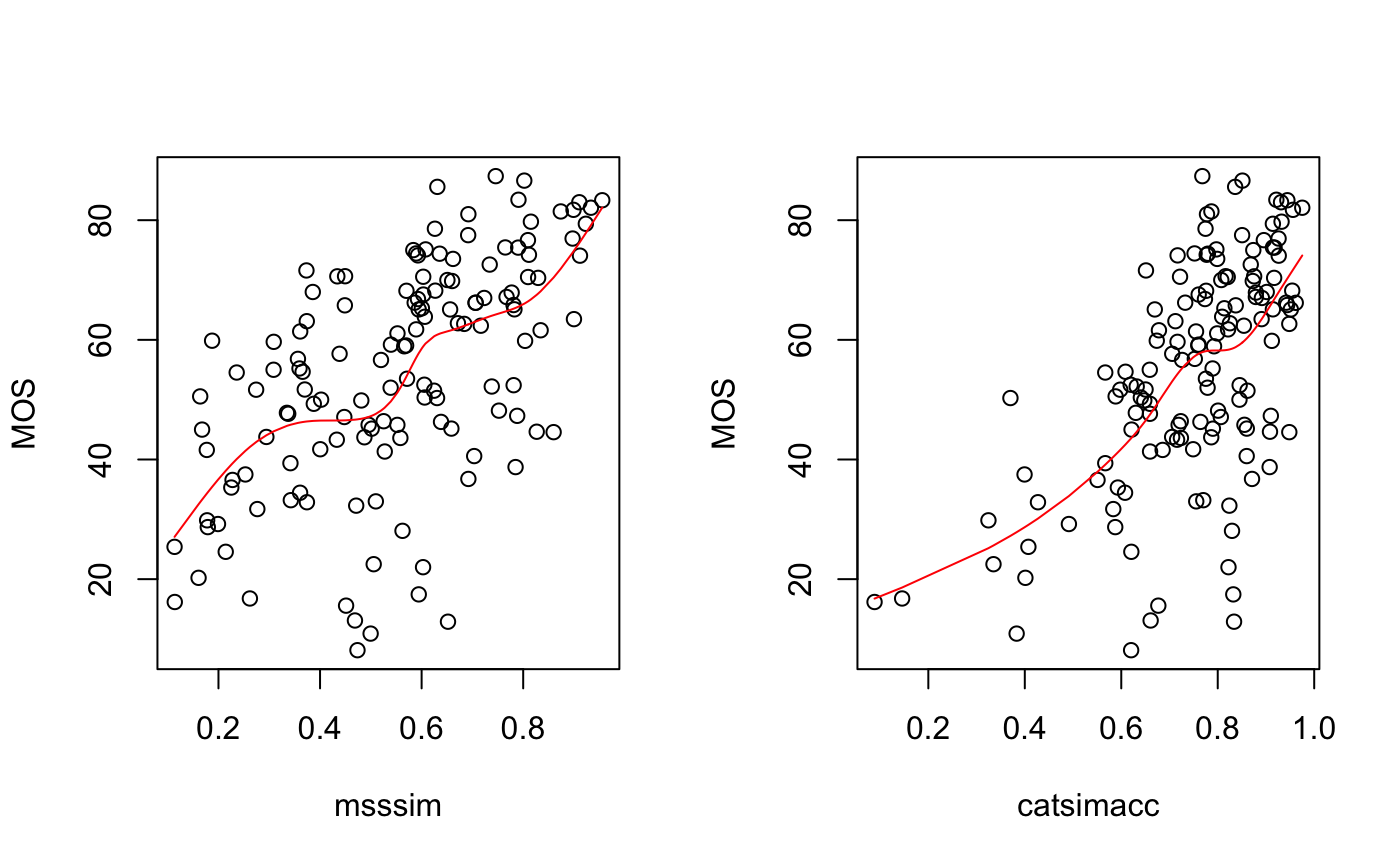
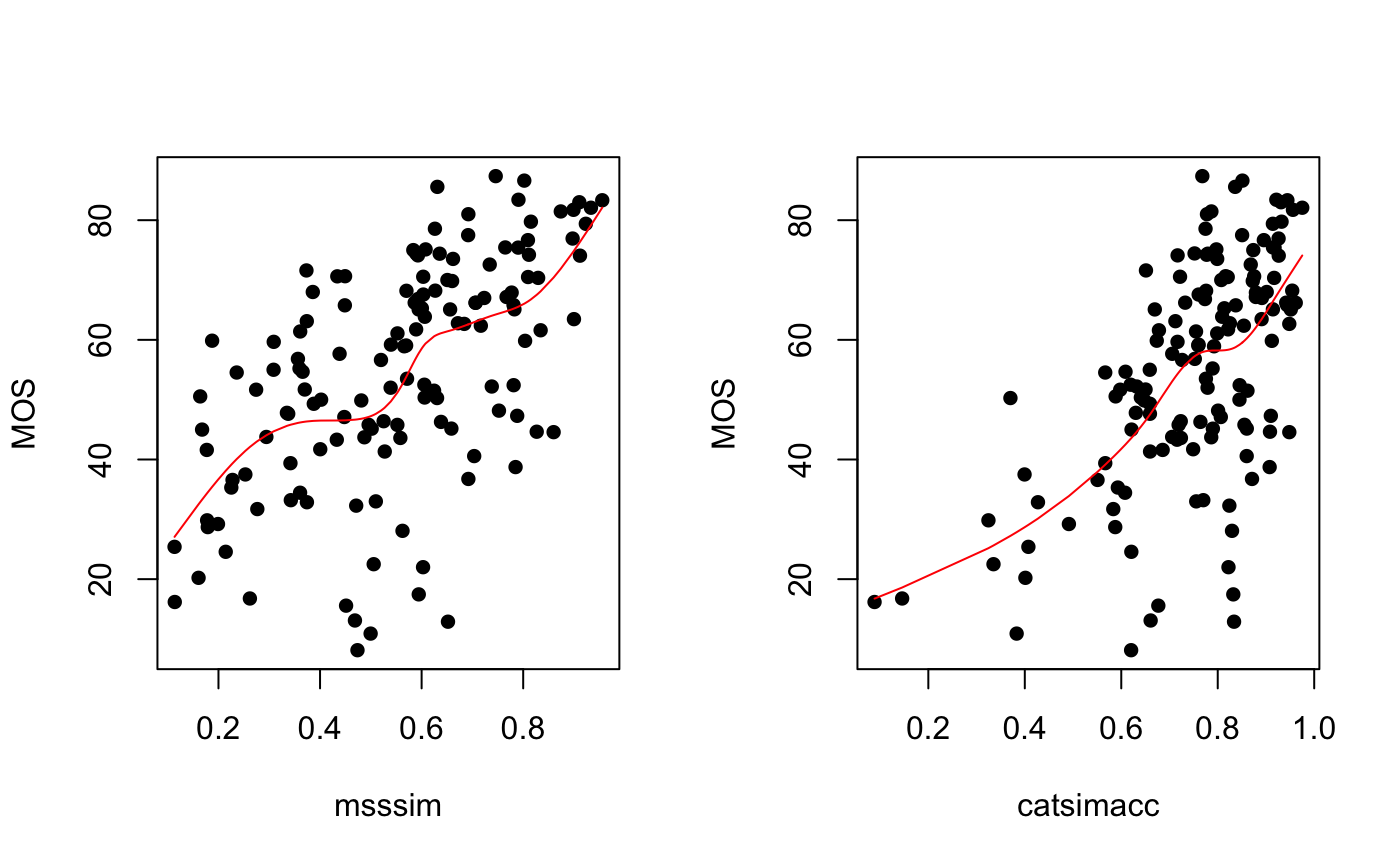
Built site for monogamy: 0.0.1@655b0d7

diff --git a/articles/monotonic-gam-models.html b/articles/monotonic-gam-models.html
@@ -331,7 +331,7 @@
 <span class="fu"><a href="https://rdrr.io/r/graphics/par.html">par</a></span>(<span class="kw">mfrow</span> <span class="kw">=</span> <span class="fu"><a href="https://rdrr.io/r/base/c.html">c</a></span>(<span class="fl">1</span>,<span class="fl">2</span>))
 <span class="kw">for</span> (<span class="no">i</span> <span class="kw">in</span> <span class="fl">1</span>:<span class="fl">8</span>) {
     <span class="fu"><a href="https://rdrr.io/r/graphics/plot.html">plot</a></span>(<span class="no">metricmodels</span>$<span class="no">msplinemodel</span><span class="kw">[[</span><span class="no">i</span>]], <span class="kw">xlab</span> <span class="kw">=</span> <span class="no">metricmodels</span>$<span class="no">metric</span>[<span class="no">i</span>],
-         <span class="kw">ylab</span> <span class="kw">=</span> <span class="st">"MOS"</span>)
+         <span class="kw">ylab</span> <span class="kw">=</span> <span class="st">"MOS"</span>, <span class="kw">pch</span> <span class="kw">=</span> <span class="fl">16</span>)
 }</pre></body></html></div>
 <p><img src="monotonic-gam-models_files/figure-html/monomodels-1.png" width="700"><img src="monotonic-gam-models_files/figure-html/monomodels-2.png" width="700"><img src="monotonic-gam-models_files/figure-html/monomodels-3.png" width="700"><img src="monotonic-gam-models_files/figure-html/monomodels-4.png" width="700"></p>
   </div>
